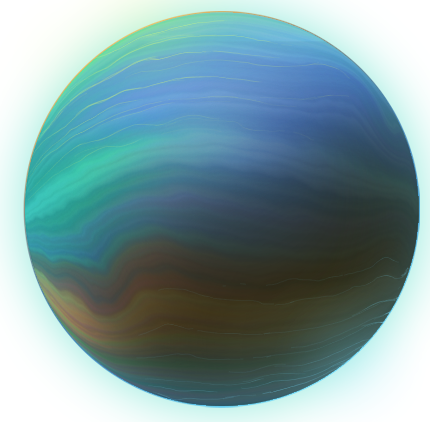
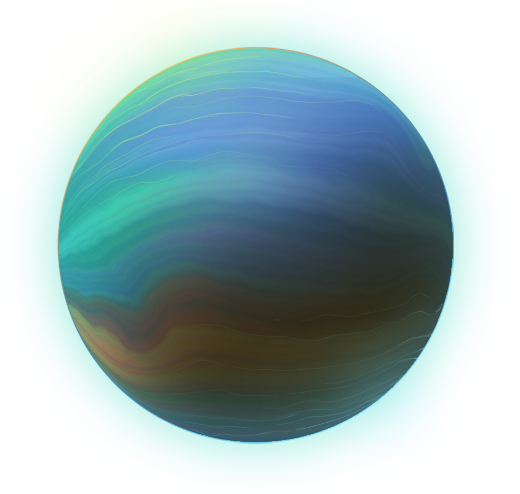
fixed crop issues on planet pics

diff --git a/src/styles/map.scss b/src/styles/map.scss
@@ -10,17 +10,17 @@
 
     .red-giant{
         position: absolute;
-        height: 22vh;
-        width: 22vh;
-        top: 40vh;
+        height: 28vh;
+        width: 28vh;
+        top: 35vh;
         right: 17vw;
     }
     .gas-giant{
         position: absolute;
-        height: 25vh;
-        width: 25vh;
-        top: 10vh;
-        right: 70vw;
+        height: 30vh;
+        width: 30vh;
+        top: 8vh;
+        right: 65vw;
     }
     .ice-giant{
         position: absolute;
@@ -52,10 +52,10 @@
     }
     .sun{
         position: absolute;
-        height: 22vh;
-        width: 22vh;
-        top: 15vh;
-        right: 5vw;
+        height: 28vh;
+        width: 28vh;
+        top: 10vh;
+        right: 3vw;
     }
 }
 
